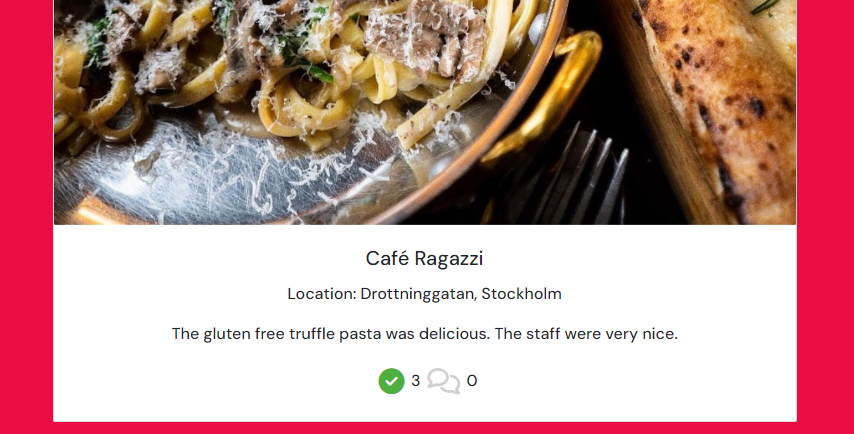
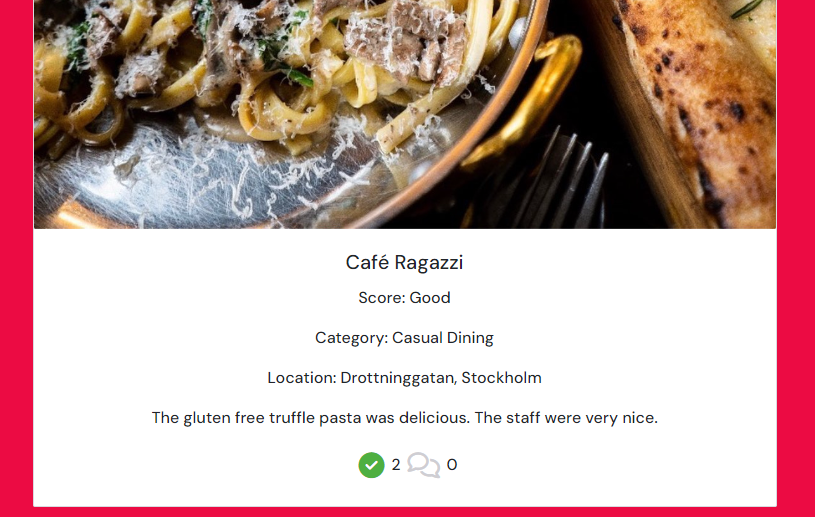
Update README with score and category features

diff --git a/README.md b/README.md
@@ -304,7 +304,8 @@ A component that displays a navigation bar. It's used on all pages to ensure sea
 #### Create a post
 ![create a posts](docs/images/feature_10.png)
 
-- A logged in user has access to the "Add post" button. When the user clicks on "Add post", they can create their post with title, location, content and upload an image. After clicking "create" the post is visible in the feed at the Home page.
+- A logged in user has access to the "Add post" button. When the user clicks on "Add post", they can create their post with title, location, content and upload an image. The user can also rate their experience, if they think its Okey, Good or Great, by choosing an option in the dropdown menu. Similarly, the user also selects a category to match the post. 
+After clicking "create" the post is visible in the feed at the Home page.
 - A logged in user can edit och delete a story they have created themselves by clicking on the post and then the three dots to the right in the head of the post.
 
 #### Edit profile
